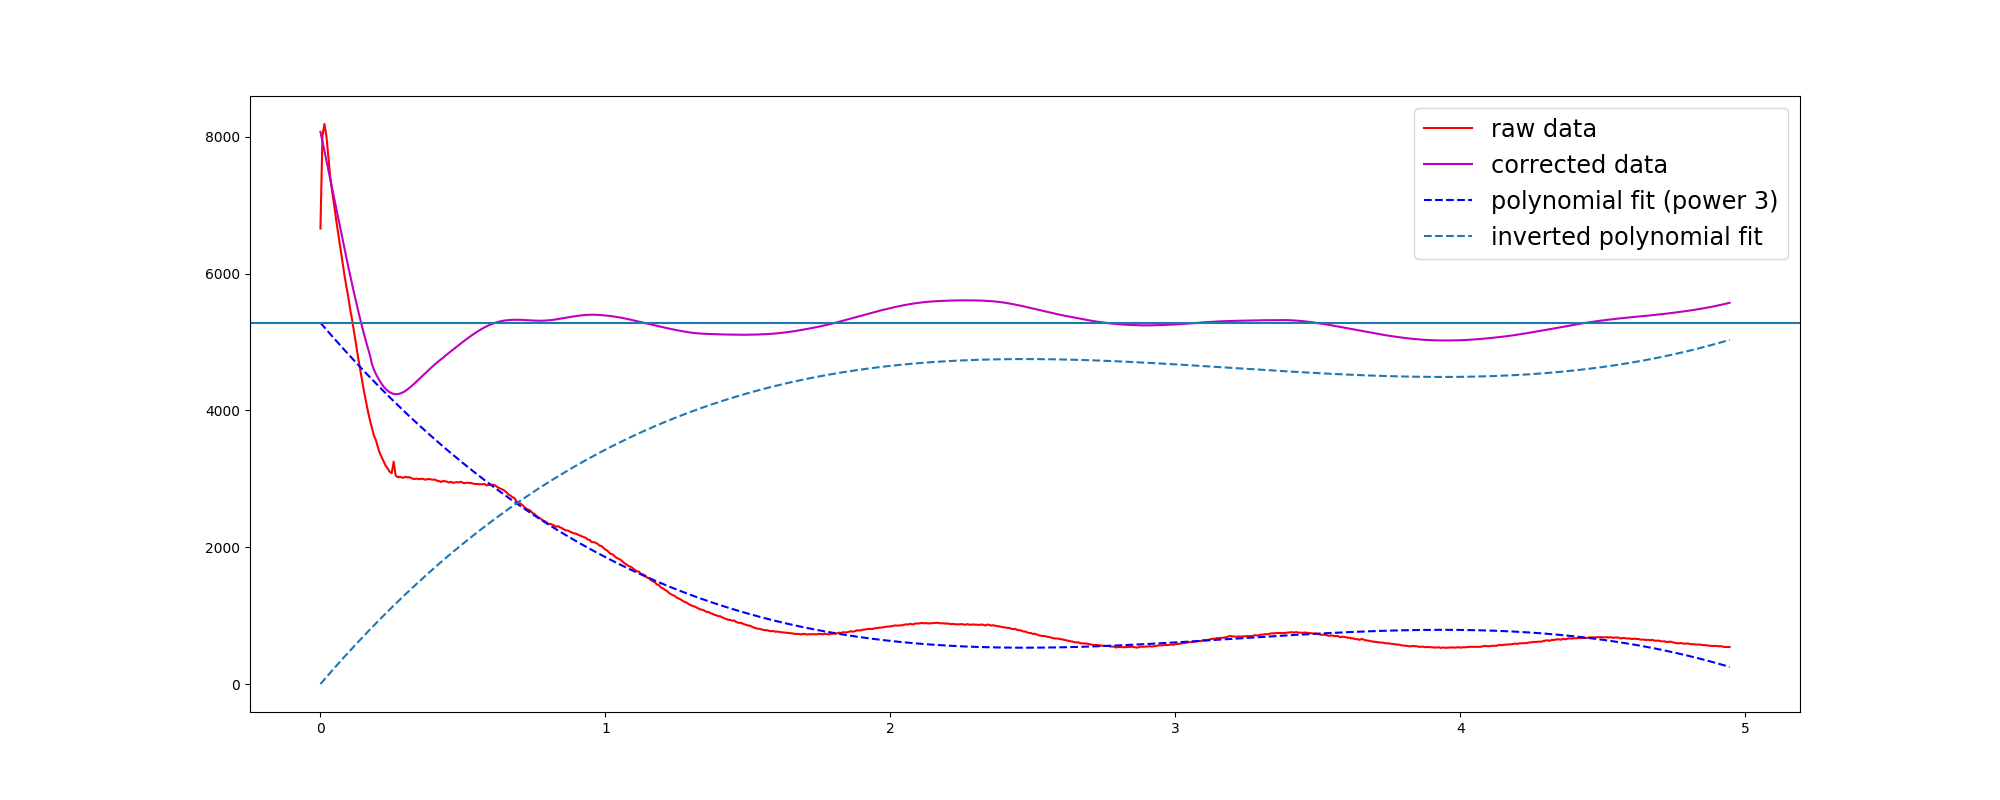
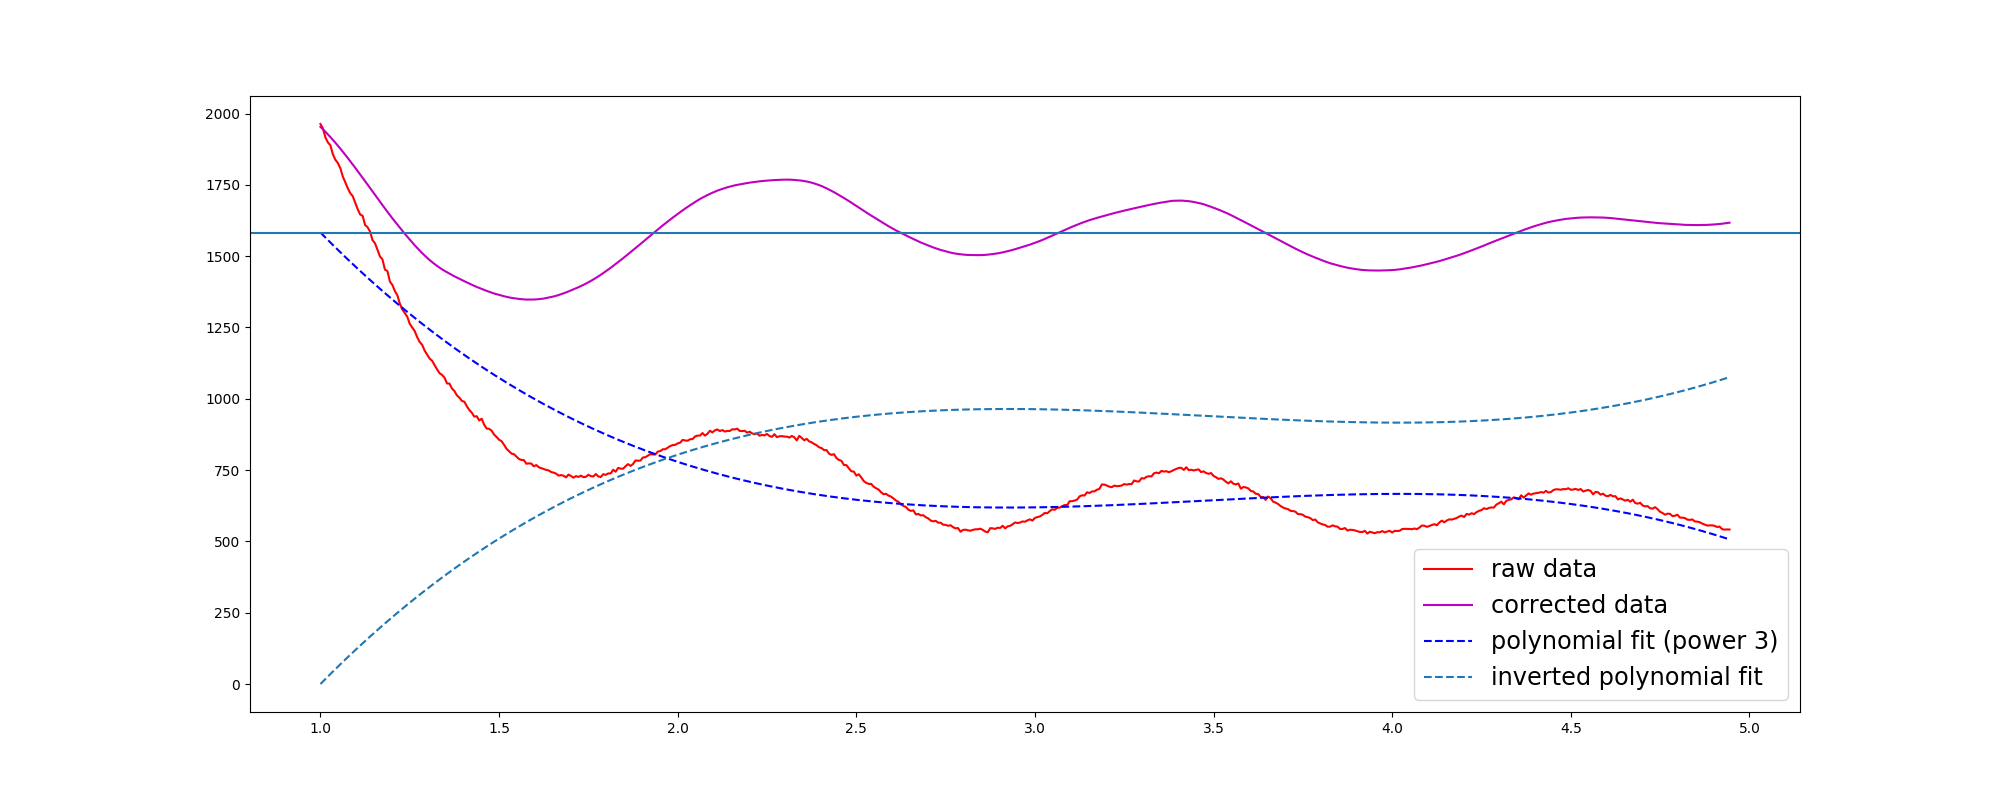
Fixed some stuff.

diff --git a/python/per_calc.py b/python/per_calc.py
@@ -15,11 +15,20 @@ def find_pv(filename="021717_12h_starvation_Ca1a_Bmal1.csv"):
 	true_data = np.genfromtxt(filename, delimiter=",", skip_header=3, skip_footer=1, missing_values=0);
 
 	print(filename)
-	print(true_data.shape[1]/2)
+# 	print(true_data.shape[1]/2)
 
 	for i in range((int)(true_data.shape[1]/2)):
 		true_t = true_data[:,2*i]
 		true_x = true_data[:,(2*i)+1]
+		
+		cutoff = np.argmin(np.absolute(np.subtract(true_t, 1.0)))
+# 		print(true_t.shape)
+		true_t = true_t[cutoff:]
+		true_x = true_x[cutoff:]
+
+# 		print(true_t.shape)
+
+# 		print(cutof	f)
 
 		t0 = 0
 		dt = .1
@@ -65,14 +74,16 @@ def find_pv(filename="021717_12h_starvation_Ca1a_Bmal1.csv"):
 		tmp_list = []
 
 		for miss in missing_idx:
-			miss = miss[0]
-	# 		print(miss)
-	# 		print(tmp_list)
-			tmp_list.append((int)((pv_idx[0][miss-1]+pv_idx[0][miss])/2))
-	# 		print(tmp_list)
+# 			print(miss)
+			if(len(miss) > 0):
+				miss = miss[0]
+		# 		print(miss)
+		# 		print(tmp_list)
+				tmp_list.append((int)((pv_idx[0][miss-1]+pv_idx[0][miss])/2))
+		# 		print(tmp_list)
 
 		new_idx = (np.array(tmp_list),)
-		# print(pv_idx)
+# 		print(new_idx[0].shape[0])
 
 		cutoff=0
 
@@ -98,7 +109,8 @@ def find_pv(filename="021717_12h_starvation_Ca1a_Bmal1.csv"):
 		# plt.plot( true_t[pv_idx], true_x[pv_idx], 'bx' )
 		plt.plot( true_t[pv_idx], fixed_x[pv_idx], 'rx', mew=2, markersize=6, label="found peaks and valleys" )
 		# plt.plot( true_t[new_idx], true_x[new_idx], 'gx' )
-		plt.plot( true_t[new_idx], fixed_x[new_idx], 'gx', mew=2, markersize=8, label="predicted peaks and valleys" )
+		if(new_idx[0].shape[0]):
+			plt.plot( true_t[new_idx], fixed_x[new_idx], 'gx', mew=2, markersize=8, label="predicted peaks and valleys" )
 		plt.axhline( avg_y )
 		plt.legend(loc="best",fontsize='xx-large')
 

diff --git a/python/main.py b/python/main.py
@@ -35,3 +35,11 @@ def run_multiple_cos(N, num_parents, num_children, num_generations, tourney_size
 for filename in ["021717_12h_starvation_Ca1a_Bmal1.csv", "021717_12h_starvation_10A_Bmal1.csv"]:
 	find_pv(filename)
 	break
+# 
+# true_data = np.genfromtxt("021717_12h_starvation_Ca1a_Bmal1.csv", delimiter=",", skip_header=3, skip_footer=1, missing_values=0);
+# 
+# true_t = true_data[:,4]
+# true_x = true_data[:,5]
+# 
+# plt.plot( true_t, true_x, 'r')
+# plt.show()
